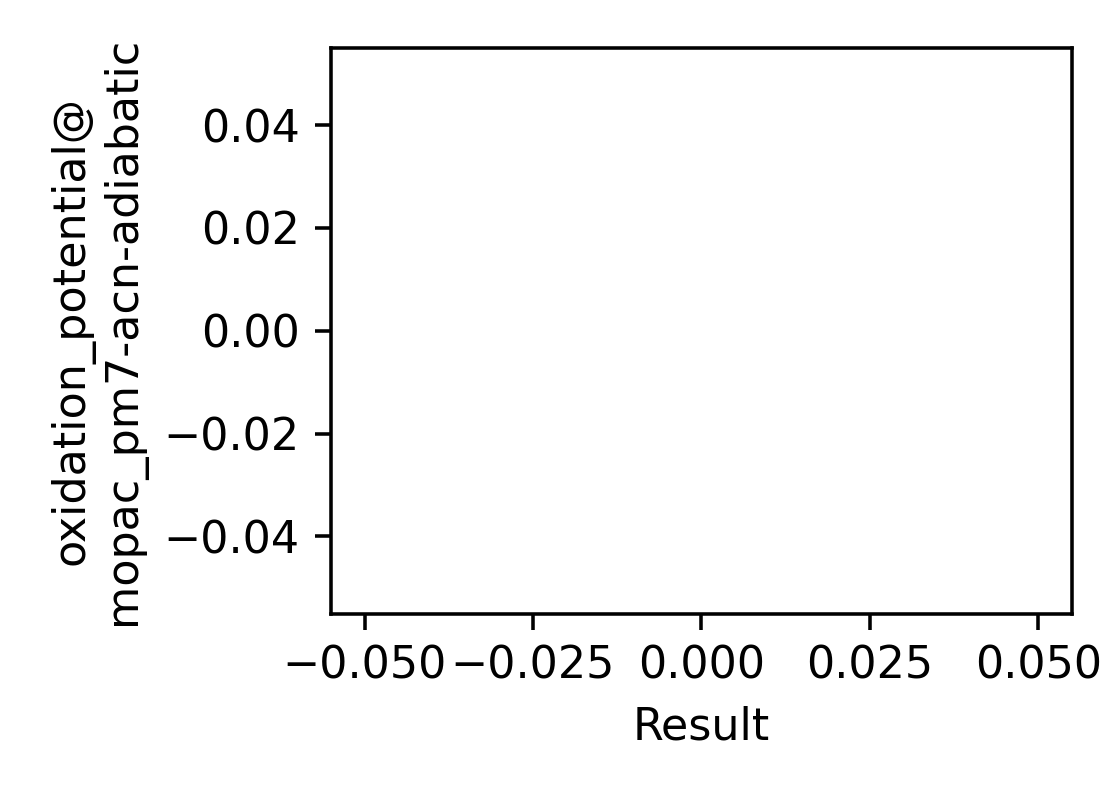
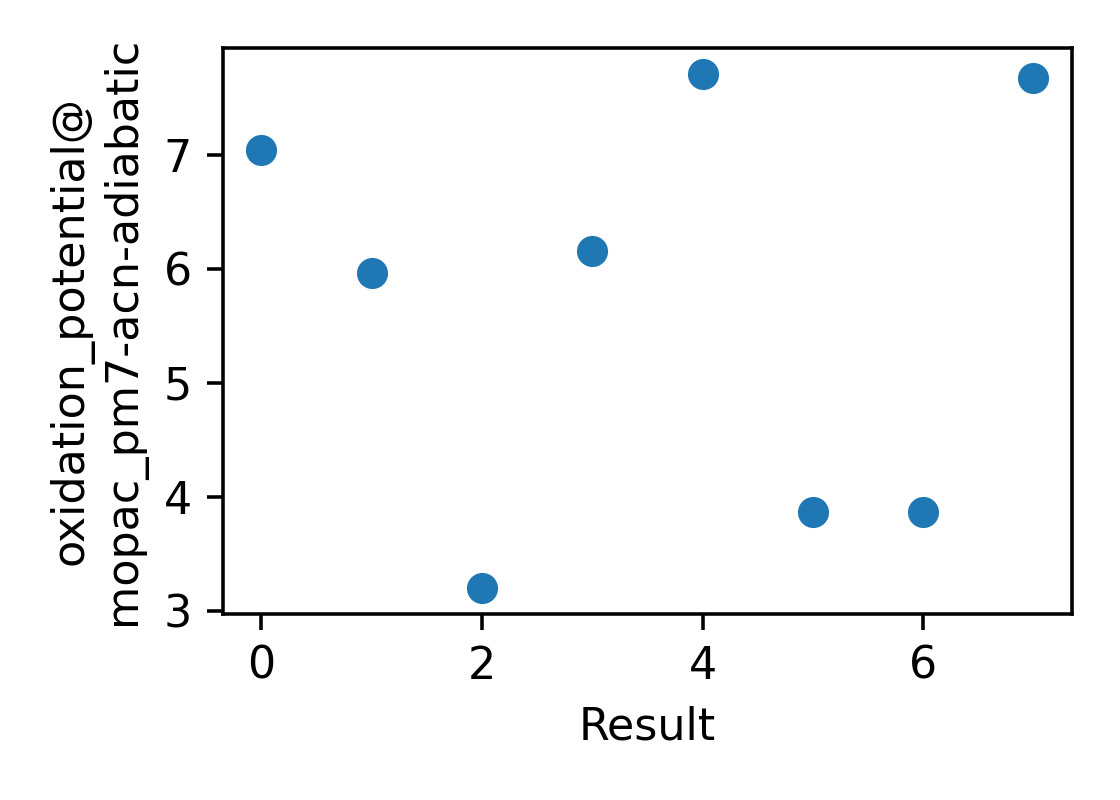
Do not use a word that's reserved for Parsl
Not sure why "inputs" and "outputs" are a problem now,
but _boy_ are they a tough to track down problem.

diff --git a/examol/score/nfp.py b/examol/score/nfp.py
@@ -321,7 +321,7 @@ class NFPScorer(MultiFidelityScorer):
 
     def score(self,
               model_msg: NFPMessage,
-              inputs: list[dict | tuple[dict, np.ndarray]],
+              input_data: list[dict | tuple[dict, np.ndarray]],
               batch_size: int = 64,
               lower_fidelities: np.ndarray | None = None,
               **kwargs) -> np.ndarray:
@@ -329,7 +329,7 @@ class NFPScorer(MultiFidelityScorer):
 
         Args:
             model_msg: Model in a transmittable format
-            inputs: Batch of inputs ready for the model (in dictionary format)
+            input_data: Batch of inputs ready for the model (in dictionary format)
             batch_size: Number of molecules to evaluate at each time
             lower_fidelities: Properties of the molecule at lower levels, if known
         Returns:
@@ -338,7 +338,7 @@ class NFPScorer(MultiFidelityScorer):
         model = model_msg.get_model()  # Unpack the model
 
         # Run inference
-        loader = make_data_loader(inputs, batch_size=batch_size)
+        loader = make_data_loader(input_data, batch_size=batch_size)
         ml_outputs = np.squeeze(model.predict(loader, verbose=False))
         if ml_outputs.ndim == 1:  # Single-fidelity learning
             return ml_outputs
@@ -351,8 +351,8 @@ class NFPScorer(MultiFidelityScorer):
 
     def retrain(self,
                 model_msg: dict | NFPMessage,
-                inputs: list,
-                outputs: np.ndarray,
+                input_data: list,
+                output_data: np.ndarray,
                 lower_fidelities: None | np.ndarray = None,
                 num_epochs: int = 4,
                 batch_size: int = 32,
@@ -367,8 +367,8 @@ class NFPScorer(MultiFidelityScorer):
 
         Args:
             model_msg: Model to be retrained
-            inputs: Training set inputs, as generated by :meth:`transform_inputs`
-            outputs: Training Set outputs, as generated by :meth:`transform_outputs`
+            input_data: Training set inputs, as generated by :meth:`transform_inputs`
+            output_data: Training Set outputs, as generated by :meth:`transform_outputs`
             lower_fidelities: Lower-fidelity data, if available
             num_epochs: Maximum number of epochs to run
             batch_size: Number of molecules per training batch
@@ -405,12 +405,12 @@ class NFPScorer(MultiFidelityScorer):
                 return tf.keras.losses.mean_squared_error(y_true[is_known], y_pred[is_known])
 
             # Prepare the outputs
-            outputs = np.concatenate([lower_fidelities, outputs[:, None]], axis=1)
-            outputs = compute_deltas(outputs)
-            value_spec = tf.TensorSpec((outputs.shape[1],), dtype=tf.float32)
+            output_data = np.concatenate([lower_fidelities, output_data[:, None]], axis=1)
+            output_data = compute_deltas(output_data)
+            value_spec = tf.TensorSpec((output_data.shape[1],), dtype=tf.float32)
 
         # Split off a validation set
-        train_x, valid_x, train_y, valid_y = train_test_split(inputs, outputs, test_size=validation_split)
+        train_x, valid_x, train_y, valid_y = train_test_split(input_data, output_data, test_size=validation_split)
 
         # Make the loaders
         steps_per_epoch = len(train_x) // batch_size
@@ -422,9 +422,9 @@ class NFPScorer(MultiFidelityScorer):
 
         # Define initial guesses for the "scaling" later
         try:
-            outputs = np.array(outputs)
-            output_mean = np.nanmean(outputs, axis=0)
-            outputs_std = np.clip(np.nanstd(outputs, axis=0), 1e-6, a_max=None)
+            output_data = np.array(output_data)
+            output_mean = np.nanmean(output_data, axis=0)
+            outputs_std = np.clip(np.nanstd(output_data, axis=0), 1e-6, a_max=None)
             for i, (m, s) in enumerate(zip(np.atleast_1d(output_mean), np.atleast_1d(outputs_std))):
                 scale_layer = model.get_layer(f'scale_{i}')
                 scale_layer.set_weights([np.atleast_2d(s), np.atleast_1d(m)])

diff --git a/examol/score/rdkit/__init__.py b/examol/score/rdkit/__init__.py
@@ -103,53 +103,53 @@ class RDKitScorer(MultiFidelityScorer):
             # Send the whole list for inference
             return model
 
-    def score(self, model_msg: ModelType, inputs: InputType, lower_fidelities: np.ndarray | None = None, **kwargs) -> np.ndarray:
+    def score(self, model_msg: ModelType, input_data: InputType, lower_fidelities: np.ndarray | None = None, **kwargs) -> np.ndarray:
         if not isinstance(model_msg, list):
             # Single objective
-            return model_msg.predict(inputs)
+            return model_msg.predict(input_data)
         elif len(model_msg) == 1:
-            return np.squeeze(model_msg[0].predict(inputs))
+            return np.squeeze(model_msg[0].predict(input_data))
         else:
             # Get the known deltas then append a NaN to the end (we don't know the last delta)
             if lower_fidelities is None:
-                deltas = np.empty((len(inputs), len(model_msg))) * np.nan
+                deltas = np.empty((len(input_data), len(model_msg))) * np.nan
             else:
                 known_deltas = compute_deltas(lower_fidelities)
                 deltas = np.concatenate((known_deltas, np.empty_like(known_deltas[:, :1]) * np.nan), axis=1)
 
             # Run the model at each level
             for my_level, my_model in enumerate(model_msg):
-                my_preds = my_model.predict(inputs)
+                my_preds = my_model.predict(input_data)
                 is_unknown = np.isnan(deltas[:, my_level])
                 deltas[is_unknown, my_level] = my_preds[is_unknown]
 
             # Sum up the deltas
             return np.sum(deltas, axis=1)
 
-    def retrain(self, model_msg: Pipeline, inputs: InputType, outputs: np.ndarray,
+    def retrain(self, model_msg: Pipeline, input_data: InputType, output_data: np.ndarray,
                 bootstrap: bool = False,
                 lower_fidelities: np.ndarray | None = None) -> ModelType:
         if bootstrap:
-            samples = np.random.random_integers(0, len(inputs) - 1, size=(len(inputs),))
-            inputs = [inputs[i] for i in samples]
-            outputs = outputs[samples]
+            samples = np.random.random_integers(0, len(input_data) - 1, size=(len(input_data),))
+            input_data = [input_data[i] for i in samples]
+            output_data = output_data[samples]
             if lower_fidelities is not None:
                 lower_fidelities = lower_fidelities[samples, :]
 
         if lower_fidelities is None:
             # For single level, train a single model
-            model_msg.fit(inputs, outputs)
+            model_msg.fit(input_data, output_data)
             return model_msg
         else:
             # Compute the delta and then train a different model for each delta
-            outputs = np.concatenate([lower_fidelities, outputs[:, None]], axis=1)  # Append target level to end
-            deltas = compute_deltas(outputs)
+            output_data = np.concatenate([lower_fidelities, output_data[:, None]], axis=1)  # Append target level to end
+            deltas = compute_deltas(output_data)
 
             models = []
             for y in deltas.T:
                 # Remove the missing values
                 mask = np.isfinite(y)
-                my_smiles = [i for m, i in zip(mask, inputs) if m]
+                my_smiles = [i for m, i in zip(mask, input_data) if m]
                 y = y[mask]
 
                 # Fit a fresh copy of the model

diff --git a/examol/score/base.py b/examol/score/base.py
@@ -77,24 +77,24 @@ class Scorer:
         """
         raise NotImplementedError()
 
-    def score(self, model_msg: object, inputs: list, **kwargs) -> np.ndarray:
+    def score(self, model_msg: object, input_data: list, **kwargs) -> np.ndarray:
         """Assign a score to molecules
 
         Args:
             model_msg: Model in a transmittable format, may need to be deserialized
-            inputs: Batch of inputs ready for the model, as generated by :meth:`transform_inputs`
+            input_data: Batch of inputs ready for the model, as generated by :meth:`transform_inputs`
         Returns:
             The scores to a set of records
         """
         raise NotImplementedError()
 
-    def retrain(self, model_msg: object, inputs: list, outputs: list, **kwargs) -> object:
+    def retrain(self, model_msg: object, input_data: list, output_data: list, **kwargs) -> object:
         """Retrain the scorer based on new training records
 
         Args:
             model_msg: Model to be retrained
-            inputs: Training set inputs, as generated by :meth:`transform_inputs`
-            outputs: Training Set outputs, as generated by :meth:`transform_outputs`
+            input_data: Training set inputs, as generated by :meth:`transform_inputs`
+            output_data: Training Set outputs, as generated by :meth:`transform_outputs`
         Returns:
             Message defining how to update the model
         """
@@ -121,8 +121,8 @@ class MultiFidelityScorer(Scorer):
     training and use the lower-fidelity data to enhance prediction accuracy during scoring.
     """
 
-    def score(self, model_msg: object, inputs: list, lower_fidelities: np.ndarray | None = None, **kwargs) -> np.ndarray:
+    def score(self, model_msg: object, input_data: list, lower_fidelities: np.ndarray | None = None, **kwargs) -> np.ndarray:
         raise NotImplementedError()
 
-    def retrain(self, model_msg: object, inputs: list, outputs: list, lower_fidelities: np.ndarray | None = None, **kwargs) -> object:
+    def retrain(self, model_msg: object, input_data: list, output_data: list, lower_fidelities: np.ndarray | None = None, **kwargs) -> object:
         raise NotImplementedError()

diff --git a/tests/steer/conftest.py b/tests/steer/conftest.py
@@ -74,7 +74,7 @@ def queues(recipe, scorer, simulator, tmp_path) -> ColmenaQueues:
     # Make parsl configuration
     config = Config(
         run_dir=str(tmp_path),
-        executors=[HighThroughputExecutor(max_workers=1, address='127.0.0.1')]
+        executors=[HighThroughputExecutor(max_workers_per_node=1, address='127.0.0.1')]
     )
 
     doer = ParslTaskServer(

diff --git a/examples/redoxmers/run/report.md b/examples/redoxmers/run/report.md
@@ -1,12 +1,14 @@
 # Run Report
-Report time: 2023-10-18 17:38:06.910593
+Report time: 2025-02-12 09:02:54.732377
 
 ## Task Summary
 Measures how many tasks have run as part of the application
 
 | Task Type   |   Count |   Node Hours | Failures   |
 |-------------|---------|--------------|------------|
-| simulation  |       2 |      0.00041 | 0 (0.0%)   |
+| inference   |       5 |       0.0044 | 0 (0.0%)   |
+| train       |       5 |       0.0017 | 0 (0.0%)   |
+| simulation  |      37 |       0.02   | 0 (0.0%)   |
 
 ## Outcomes over Time
 The property of the molecules over time.
